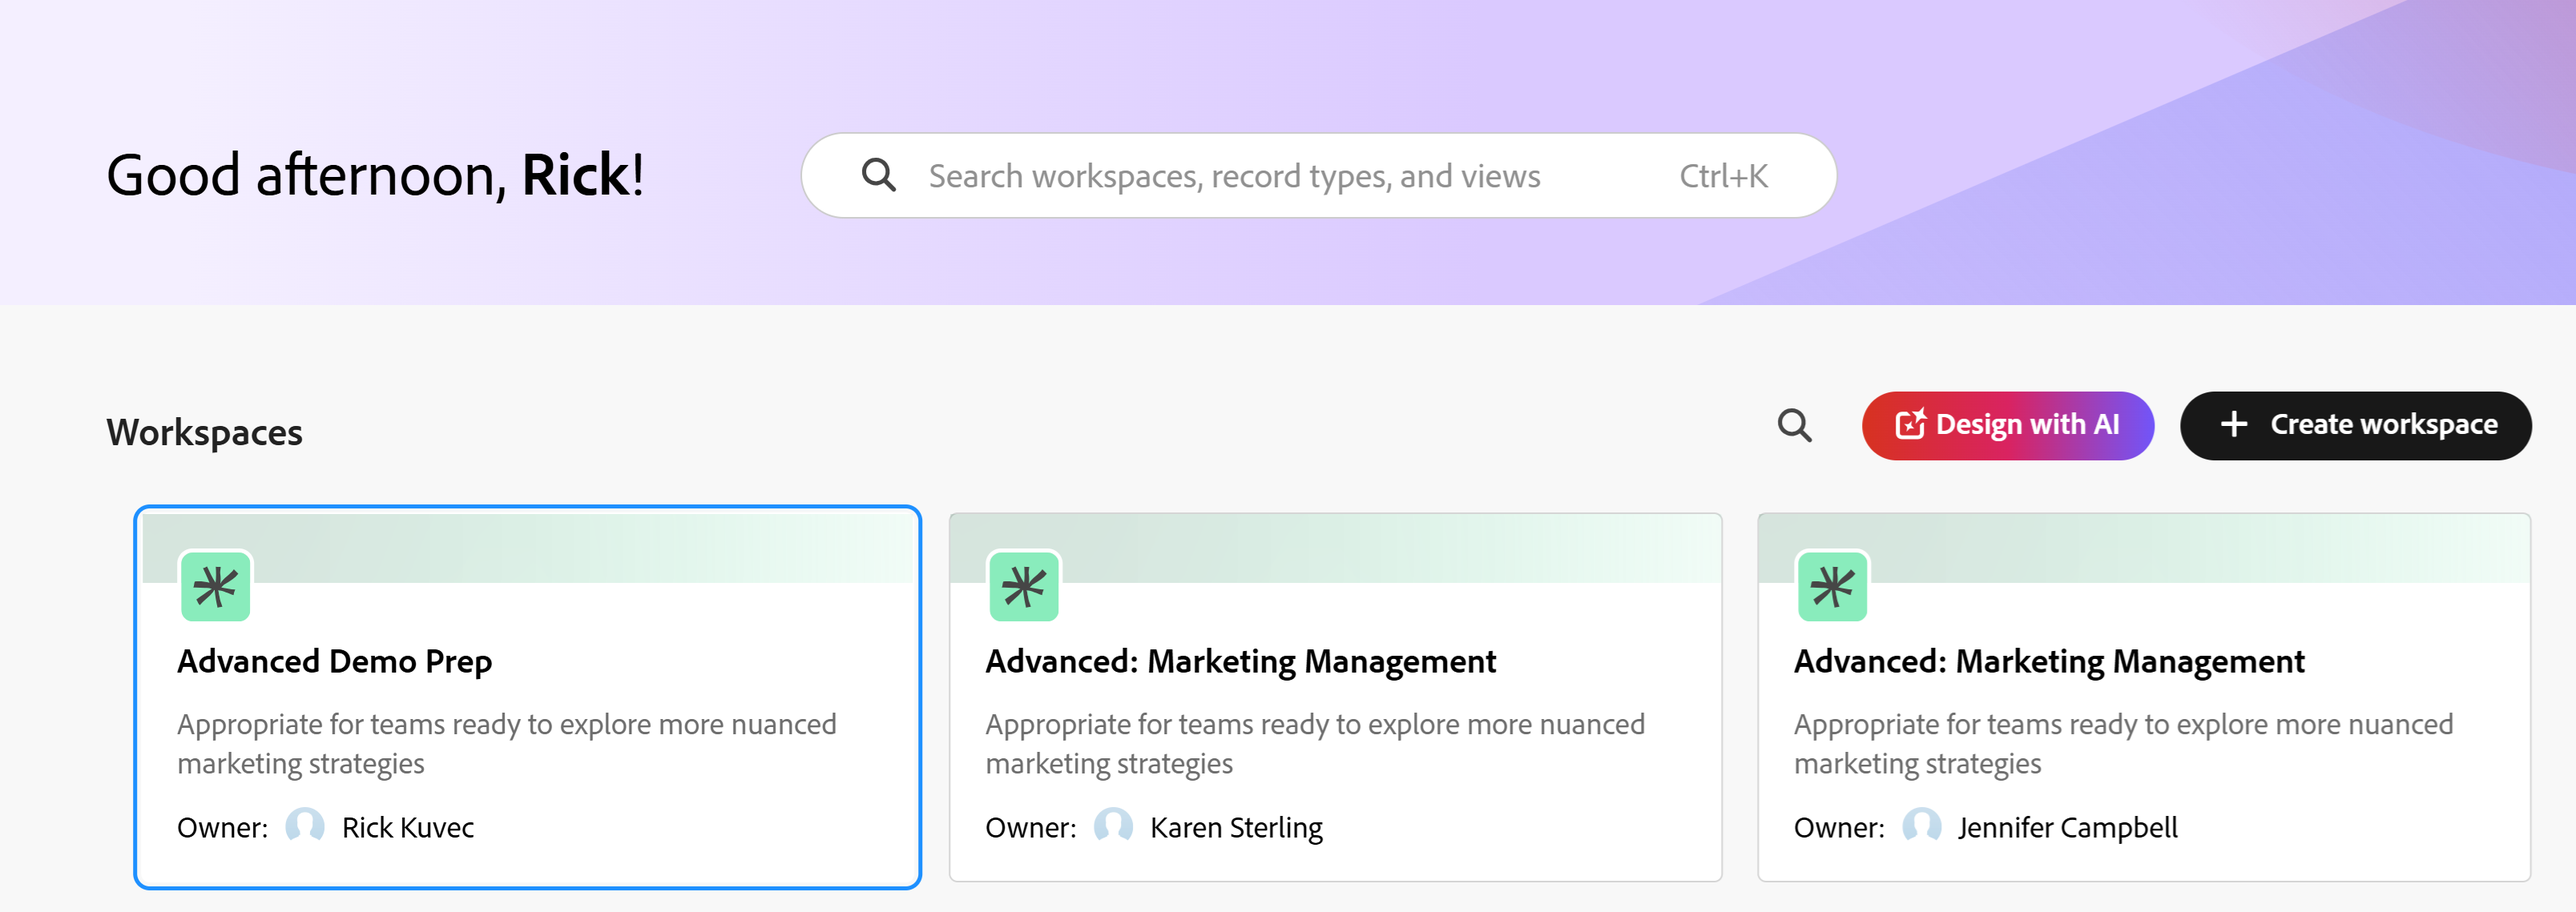
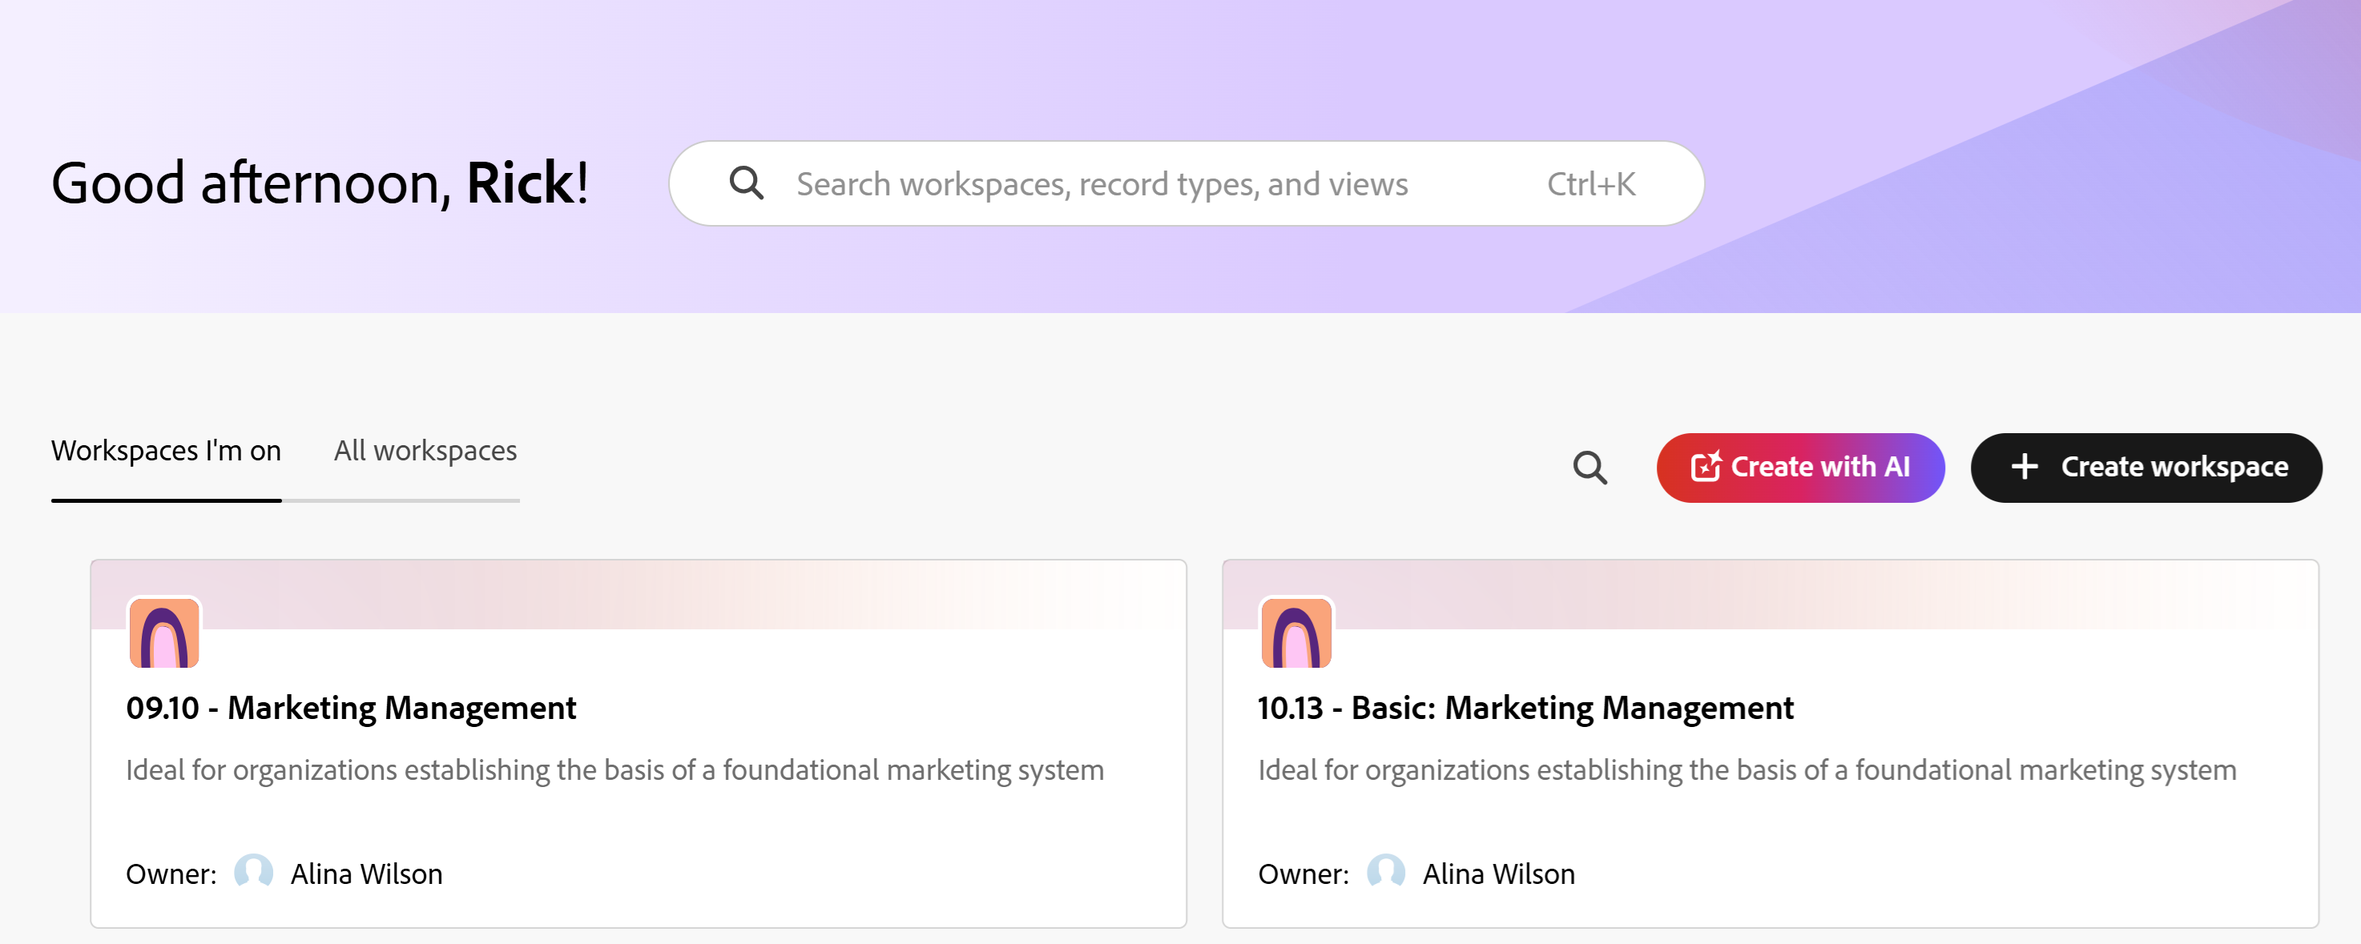
commit-aw-26-jan

diff --git a/help/quicksilver/planning/general/trial-workfront-planning.md b/help/quicksilver/planning/general/trial-workfront-planning.md
@@ -1,6 +1,6 @@
 ---
 title: Get Started with the Adobe Workfront Planning Free Trial
-description: Adobe Workfront is currently offering a 60-day free trial of Adobe Workfront Planning. This trial is your opportunity to see how Planning connects big-picture strategy with the day-to-day work that makes it happen. Planning provides centralized visibility into your marketing lifecycle, enabling better collaboration across teams, real-time tracking of campaigns, and automated workflows. You can create custom workspaces and visualize work with interactive timelines and calendars. With this trial, you'll see firsthand how Planning helps align daily work with strategic objectives, streamline execution, and drive measurable results for your organization. 
+description: Adobe Workfront is offering a 60-day free trial of Adobe Workfront Planning. This trial is your opportunity to see how Planning connects big-picture strategy with the day-to-day work that makes it happen. Planning provides centralized visibility into your marketing lifecycle, enabling better collaboration across teams, real-time tracking of campaigns, and automated workflows. You can create custom workspaces and visualize work with interactive timelines and calendars. With this trial, you will see firsthand how Planning helps align daily work with strategic objectives, streamline execution, and drive measurable results for your organization. 
 hidefromtoc: yes
 hide: yes
 ---
@@ -19,15 +19,19 @@ recommendations: noDisplay, noCatalog-->
 <!--remove the best practice link below and replace it with the folder for best practice instead-->
 <!--check the names of areas, buttons, and links: Learn more, Open Planning, Review trial agreement, etc-->
 
-Adobe Workfront is currently offering a 60-day free trial of Adobe Workfront Planning. 
+Adobe Workfront Planning provides centralized visibility into your marketing lifecycle, enabling better collaboration across teams, real-time tracking of campaigns, and automated workflows. You can create custom workspaces and visualize work with interactive timelines and calendars.
 
-The trial is available between the following dates: March 2 - May 1, 2026. 
+>[!IMPORTANT]
+>
+>* Adobe Workfront is offering a 60-day free trial of Adobe Workfront Planning. 
+>
+>* The trial is available between the following dates: March 2 - May 1, 2026. 
+>
+>* Note that the trial is available for 60 days from its launch, and not for 60 days from when you join it. 
 
-The Workfront Planning trial is not available for current Workfront Planning customers. The trial is an opportunity for Adobe Workfront customers who are not Planning customers to experience Workfront Planning, and to see how it can connect big-picture strategy with the day-to-day work that makes it happen. 
+With this trial, you will see firsthand how Planning helps align daily work with strategic objectives, streamlines execution, and drives measurable results for your organization. 
 
-Workfront Planning provides centralized visibility into your marketing lifecycle, enabling better collaboration across teams, real-time tracking of campaigns, and automated workflows. You can create custom workspaces and visualize work with interactive timelines and calendars. 
-
-With this trial, you'll see firsthand how Planning helps align daily work with strategic objectives, streamlines execution, and drives measurable results for your organization. 
+After your Workfront administrator accepts the agreement and signs up for the free trial, Workfront Planning will be available to everyone in your organization starting on March 2, 2026. 
 
 The free Workfront Planning trial offers the following: 
 
@@ -38,21 +42,38 @@ The free Workfront Planning trial offers the following:
 
 ## Prerequisites for joining the trial
 
-Your company must have the following to be able to join the Workfront Planning free trial:
+Your company must meet the following requirements to be able to join the Workfront Planning free trial:
 
-* Any new Adobe Workfront or Workflow package
+* Have any of the following new Adobe Workfront or Workflow packages:
+
+    * Select
+    * Prime
+    * Ultimate
+
     The Workfront Planning trial is not available for the legacy Workfront packages.
     For information, see [Access requirements in Workfront documentation](/help/quicksilver/administration-and-setup/add-users/access-levels-and-object-permissions/access-level-requirements-in-documentation.md). 
-* Access to the Adobe Admin Console
-* Be part of the Identity Management System (IMS)
-* The signed legal trial agreement available in your organization's Workfront instance
+* Have access to the Adobe Admin Console
+* Is part of the Identity Management System (IMS)
+* Accept the legal trial agreement available in your organization's Workfront instance starting on January 26, 2026. You must be a Workfront administrator to accept the trial agreement. 
 
 ## Overview of important dates
 
 The following are important dates associated with the Adobe Workfront Planning free trial offering:
 
-* **March 2, 2026**: The Workfront Planning trial launches.
-* **May 1, 2026**: The Workfront Planning trial closes and your access to Planning is removed. Workfront secures your data after the trial is over. 
+* **January 26, 2026**: The Workfront Planning free trial banners are released to Workfront customers. The banners include the following: 
+    * A link to this document. 
+    * The trial agreement acceptance window. Only a Workfront administrator can accept the agreement. You can accept the trial agreement at any time starting with this date.
+* **March 2, 2026**: The Workfront Planning trial launches. 
+
+    The following scenarios exist:
+    
+    * If your Workfront administrator has accepted the agreement prior to this date, you can find the Planning area in your Main Menu and start using Workfront Planning. 
+    * If your  Workfront administrator has not accepted the agreement prior to this date, they must first accept it before you can have access to Workfront Planning. 
+* **May 1, 2026**: The Workfront Planning trial closes and your access to Planning is removed. 
+
+    Workfront secures your data after the trial is over, but you have no access to it any longer. 
+    
+    Regardless of when you accept the agreement, your access to Planning ceases on this date. 
 * **November 30, 2026**: Workfront no longer secures your data after this date. If you purchase Workfront Planning before this date, you regain access to Planning and your data. 
 
 <!--Lauren wanted this out: 
@@ -99,13 +120,13 @@ To review and accept the legal agreement, do one of the following:
 
         The following things occur after you accept the trial agreement:
 
-        * The Planning area is added to the Main Menu for you and all users in your system with a **Trial** badge. 
-        * You receive Manage access to the **Best practice workspaces** tab in the Planning area. 
-        * All users in your system receive View access to the **Best practice workspaces** tab in the Planning area. 
+        * The Planning area is added to the Main Menu for you and all users in your system and it shows a **Trial** badge. 
+        * As a System Administrator, you receive Manage access to the **Best practice workspaces** tab in the Planning area. 
+        * All users in your system that are not System Administrators receive View access to the **Best practice workspaces** tab in the Planning area. 
     1. (Conditional) If you are not a System Administrator, and your System Administrator has not accepted the trial agreement yet, follow the in-app banner that contains information about the **Workfront Planning trial**, then click **Learn more**.  
 
         You can read more about the Workfront Planning trial and about Workfront Planning. 
-    1. (Conditional) If you are not a System Administrator, and your System Administrator has accepted the trial agreement, follow the in-app vanner that contains information about the **Workfront Planning trial** and click **Open Planning**.
+    1. (Conditional) If you are not a System Administrator, and your System Administrator has accepted the trial agreement, follow the in-app banner that contains information about the **Workfront Planning trial** and click **Open Planning**.
 
         Start exploring the **Best practice workspaces** tab and share workspaces or their object with others.
           
@@ -115,16 +136,16 @@ To review and accept the legal agreement, do one of the following:
 
 ## Permissions to Workfront Planning data during the free trial
 
-* Between March 2 - May 1, 2026: 
+* **Between March 2 - May 1, 2026**: 
 
     You are granted the following permissions to the data available in the **Best practice workspaces** tab in the  **Planning Trial** area:
 
-    * All System Administrators have Manage permissions.
-    * All other users have View permissions.
+    * All System Administrators have Manage permissions to the Best practice workspaces tab in the Planning area.
+    * All other users have View permissions to the Best practice workspaces tab in the Planning area.
 
-* After May 1, 2026:
+* **After May 1, 2026:**
 
-    Your access to Workfront Planning is removed and Workfront secures your data. 
+    All users in your system have their access to Workfront Planning removed and Workfront secures your data. 
 
 
 

diff --git a/help/quicksilver/planning/general/planning-ai-designer.md b/help/quicksilver/planning/general/planning-ai-designer.md
@@ -1,26 +1,27 @@
 ---
 title: Get Started with the Adobe Workfront Planning Designer
-description: Using the Adobe Planning Designer, you can generate a new workspace, complete with record types and fields in Workfront Planning, add objects to a workspace, or view change history on records. 
+description: You can use the Adobe Planning Designer powered by AI to configure your workspaces and data structures with ease. The Planning Designer supports everything from creating and configuring workspaces to defining fields and formulas, managing records, reviewing change history and building custom views. Whether used directly or through the AI Assistant, the Planning Designer provides a flexible, powerful environment for building and maintaining structured, connected information.
 recommendations: noDisplay, noCatalog
-hidefromtoc: yes
-hide: yes
----
-
-<!--add these at release to the metadata:
-
 author: Alina, Becky
 feature: Workfront Planning
-role: User, Admin -->
+role: User, Admin
+---
 
 # Get started with the Adobe Workfront Planning Designer
-
-{{planning-important-intro}}
-
-You can use the Adobe Planning Designer powered by AI to generate a new workspace, add objects to a workspace (record types, records, views, or fields), or view change history on records.
 
 >[!IMPORTANT]
 >
 >The Planning Designer is currently only available for users participating in the Closed Beta program.
+>
+>The information in this article refers to Adobe Workfront Planning, an additional capability from Adobe Workfront. 
+>
+>For a list of requirements to access Workfront Planning, see [Adobe Workfront Planning access overview](/help/quicksilver/planning/access/access-overview.md). 
+> 
+>For general information about Workfront Planning, see [Get started with Adobe Workfront Planning](/help/quicksilver/planning/general/planning-overview.md).
+
+You can use the Adobe Planning Designer powered by AI to configure your workspaces and data structures with ease. The Planning Designer supports everything from creating and configuring workspaces to defining fields and formulas, managing records, reviewing change history and building custom views. 
+
+Whether used directly or through the AI Assistant, the Planning Designer provides a flexible, powerful environment for building and maintaining structured, connected information.
 
 For information about Workfront Planning, see the following articles:
 
@@ -64,7 +65,7 @@ For information about Workfront Planning, see the following articles:
 
 +++
 
-## Enrolling in the Closed Beta program for the Planning Designer
+## Enroll in the Closed Beta program for the Planning Designer
 
 Currently, you can request to participate in the Closed Beta program for the Planning Designer by sending us an email to sargism@adobe.com.
 
@@ -74,9 +75,25 @@ After we receive the email, our Engineering team will turn on the Planning Desig
 >
 >Your company must first accept the AI Assistant agreement before the Planning Designer is available in your system. 
 
+## Submit feedback about the Planning Designer
+
+You can submit feedback about the Planning Designer during the beta program. 
+
+1. Log in to Workfront, then click the **Main Menu** icon ![Lines main menu](assets/lines-main-menu.png) in the upper-left corner, then click **Planning**. 
+
+    The **Planning** area opens. 
+
+1. Click **Create with AI**. <!--update this tag name when they change it--> 
+
+    The **Workspace setup** area of the **Planning Designer** window opens. <!--replace shot below when they rename the area to Planning Designer-->
+
+1. Click **Submit feedback here** at the bottom of the page.
+1. Add your feedback in the space provided, then click **Submit**.
+    Your feedback is submitted to the Engineering and Product teams. 
+
 ## Considerations about the Planning Designer
 
-* In order to use the Planning Designer, you first need to turn on the AI Assistant for your organization. The following must be in place for the AI Assistant to be available to everyone in your organization:
+* To use the Planning Designer, you first need to turn on the AI Assistant for your organization. The following must be in place for the AI Assistant to be available to everyone in your organization:
 
     * Workfront must make the AI Assistant available for your organization.
 
@@ -87,7 +104,7 @@ After we receive the email, our Engineering team will turn on the Planning Desig
     * The Workfront administrator must accept the AI Assistant agreement, and then turn on the AI Assistant for all other users.
 
         For more information, see [Enable or disable AI Assistant](/help/quicksilver/workfront-basics/ai-assistant/enable-or-disable-assistant.md). 
-* After your System Administrator turned on the AI Assistant for your organization, the Planning Assistant is available for all users, by default, if it has been made available for your organization.
+* After your System Administrator turned on the AI Assistant for your organization, the Planning Designer is available for all users, by default, if it has been made available for your organization.
 * Actions performed by the Planning Designer can also be performed by the AI Assistant, when you use it in the Planning area.
 * The actions performed by the AI Assistant in the Planning area or those performed by the Planning Designer are in the context of your Workfront Planning permissions and your Workfront access level. 
 
@@ -149,13 +166,13 @@ You can create or update objects in Workfront Planning either by using the Plann
 
 1. Log in to Workfront, then click the **Main Menu** icon ![Lines main menu](assets/lines-main-menu.png) in the upper-left corner, then click **Planning**. 
 
-    The **Planning** area opens. 
+    The **Planning** area opens. <!--update screen shot when they change the name of the button-->
 
     ![Design with AI button on the Workspaces page](assets/design-with-ai-button-on-workspaces-page.png)
 
-1. Click **Design with AI**. 
+1. Click **Create with AI**. <!--update this when they change it--> 
 
-    The **Planning Designer** window opens.
+    The **Workspace setup** area of the **Planning Designer** window opens. <!--replace shot below when they rename the area to Planning Designer-->
 
     ![Planning Designer window](assets/planning-designer-window.png)
 
@@ -210,7 +227,7 @@ To turn it off:
 1. Log in to Workfront as a System Administrator. 
 1. Click **Main Menu** ![Main menu icon](assets/main-menu-shell.png) in the upper-left corner of the screen, then click **Setup**.
 1. Click **System** >  in the left panel, then go to the **AI preferences** area.
-1. Turn off the **Planning Designer** setting. <!--add new screen shot with info icon-->
+1. Turn off the **Planning Onboarding** setting. <!--add new screen shot with info icon and new name of the toggle; ensure you don't show the AI Reviewer if it is not in Prod yet-->
 
     ![Planning Designer setting in System Preferences](assets/planning-designer-toggle-in-system-preferences.png) 
 1. Click **Save**.

diff --git a/help/quicksilver/planning/general/planning-general-article-index.md b/help/quicksilver/planning/general/planning-general-article-index.md
@@ -24,6 +24,7 @@ Review the following articles:
 * [Adobe Workfront Planning release activity for 2023](/help/quicksilver/planning/general/release-activity-archives-2023.md)
 * [Adobe Workfront Planning object limitations overview](/help/quicksilver/planning/general/limitations-overview.md)
 * [Adobe Workfront Planning best practices](/help/quicksilver/planning/general/planning-best-practices.md)
+* [Get started with the Adobe Workfront Planning Designer](/help/quicksilver/planning/general/planning-ai-designer.md)
 <!--* [Get started with the Adobe Workfront Planning free trial](/help/quicksilver/planning/general/trial-workfront-planning.md)-->
 
 

diff --git a/help/quicksilver/product-announcements/betas/betas.md b/help/quicksilver/product-announcements/betas/betas.md
@@ -28,6 +28,9 @@ The following features are currently available in beta:
 * The Workfront AI Reviewer
     For information, see [Get started with the Workfront AI Reviewer](/help/quicksilver/review-and-approve-work/document-reviews-and-approvals/wf-ai-reviewer.md).
 
+* The Adobe Workfront Planning Designer is available in Closed Beta. You can email us to request access to this program.
+
+    For information, see [Get started with the Adobe Workfront Planning Designer](/help/quicksilver/planning/general/planning-ai-designer.md). 
 
 
 <!--
